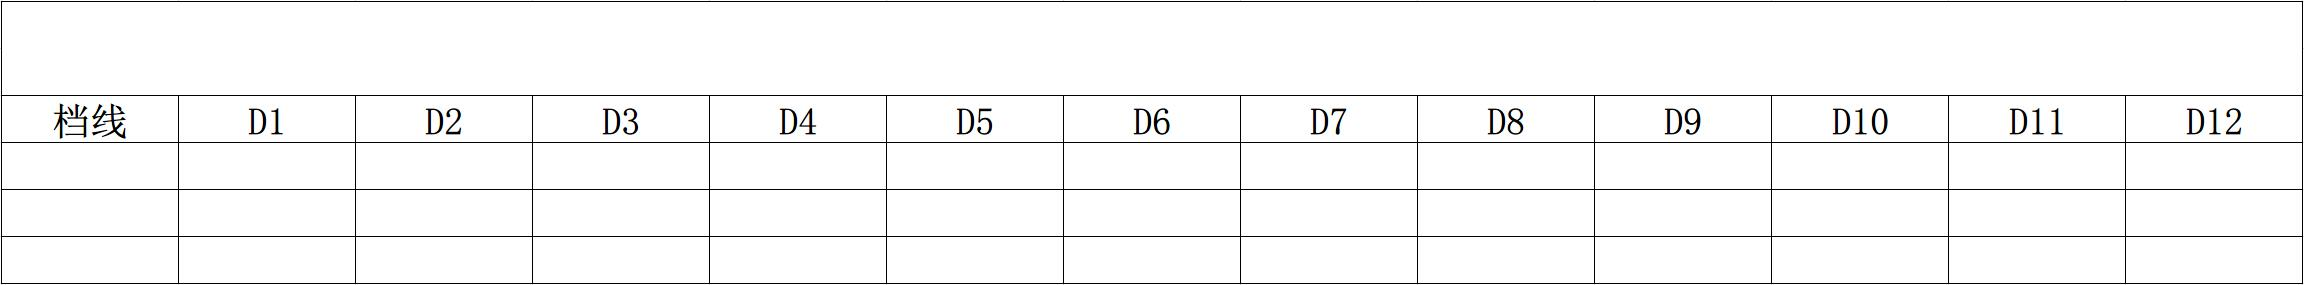
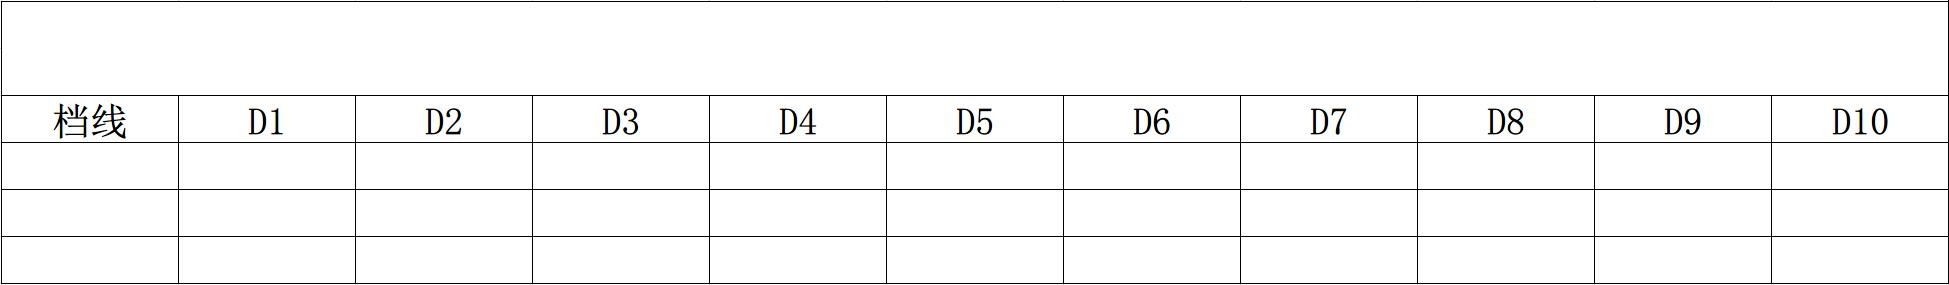
Update event info

diff --git a/day/day.go b/day/day.go
@@ -12,6 +12,7 @@
 package day
 
 import (
+	"math"
 	"sifrank/config"
 	"sifrank/db"
 	"sifrank/utils"
@@ -78,7 +79,11 @@ func GenDayRankPic() (string, error) {
 	dc.DrawString("700", float64(x_offset), float64(y_offset+y_step*1))
 	dc.DrawString("2300", float64(x_offset), float64(y_offset+y_step*2))
 	// 档线数据
-	for i := 1; i <= 12; i++ {
+	dayDiff := int(math.Ceil(endDate.Sub(startDate).Hours() / 24))
+	if err != nil {
+		return "", err
+	}
+	for i := 1; i <= dayDiff; i++ {
 		timeDiff, _ := time.ParseDuration(strconv.Itoa(24*(i-1)) + "h")
 		rankDate := startDate.Add(timeDiff).Format("2006-01-02")
 		var dayRanks []DayRankData
@@ -89,7 +94,7 @@ func GenDayRankPic() (string, error) {
 		if len(dayRanks) == 0 {
 			break
 		}
-		if i == 12 {
+		if i == dayDiff {
 			dc.SetRGB(1, 0, 0)
 		}
 		dc.DrawString(strconv.Itoa(dayRanks[0].Score), float64(x_offset+x_step*i+x_extra*i), float64(y_offset))
